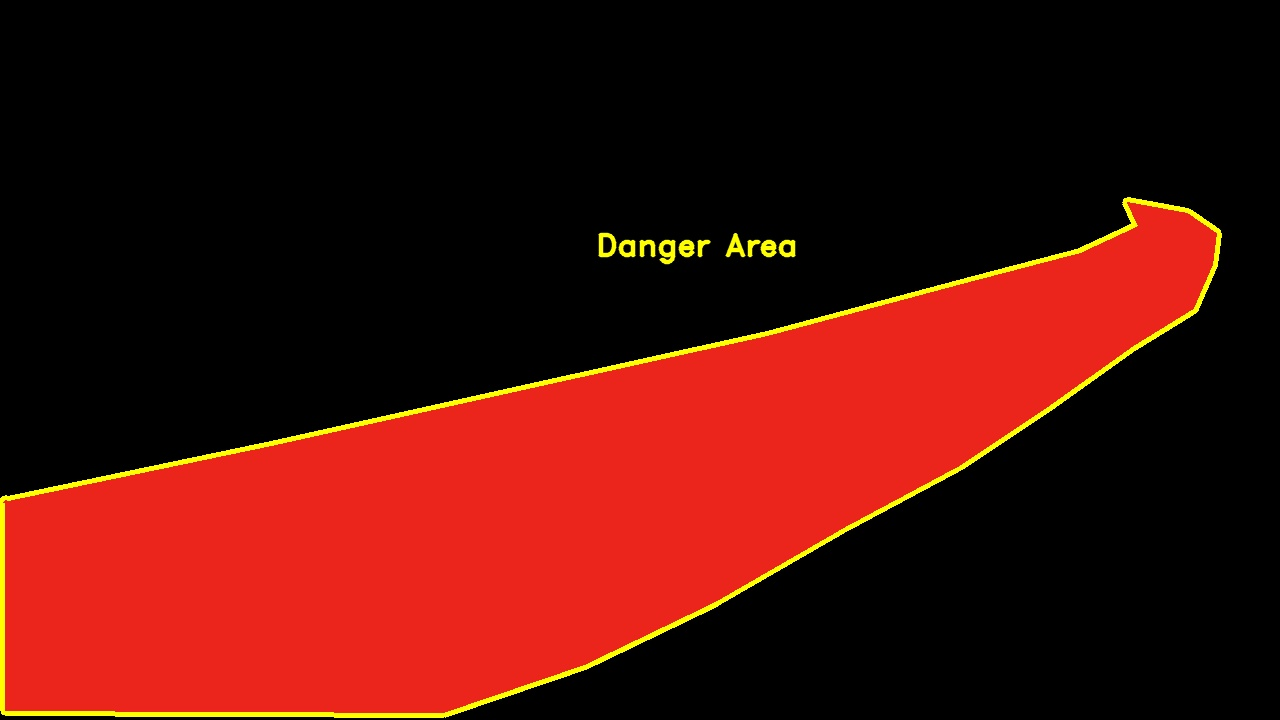
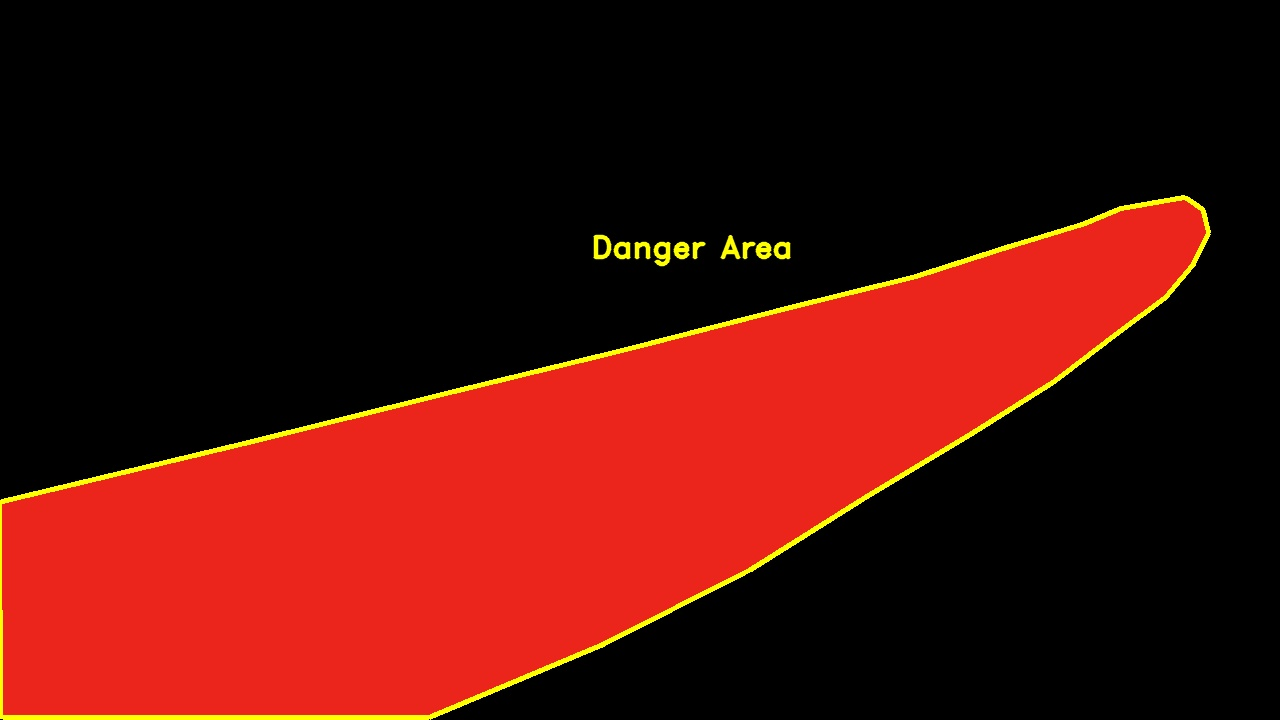
fix(mask): update 1921683113 danger zone

diff --git a/RELEASE_NOTES.md b/RELEASE_NOTES.md
@@ -1,5 +1,9 @@
 # Release Notes
 
+## v1.1.7 - 2026-07-13
+
+- 更新 1921683113 攝影機截圖與危險區域遮罩座標。
+
 ## v1.1.6 - 2026-07-13
 
 - 修正 `tools/ele_test.py` 按 Enter 不會寫入遮罩檔的問題，並補上 Pillow 依賴。
